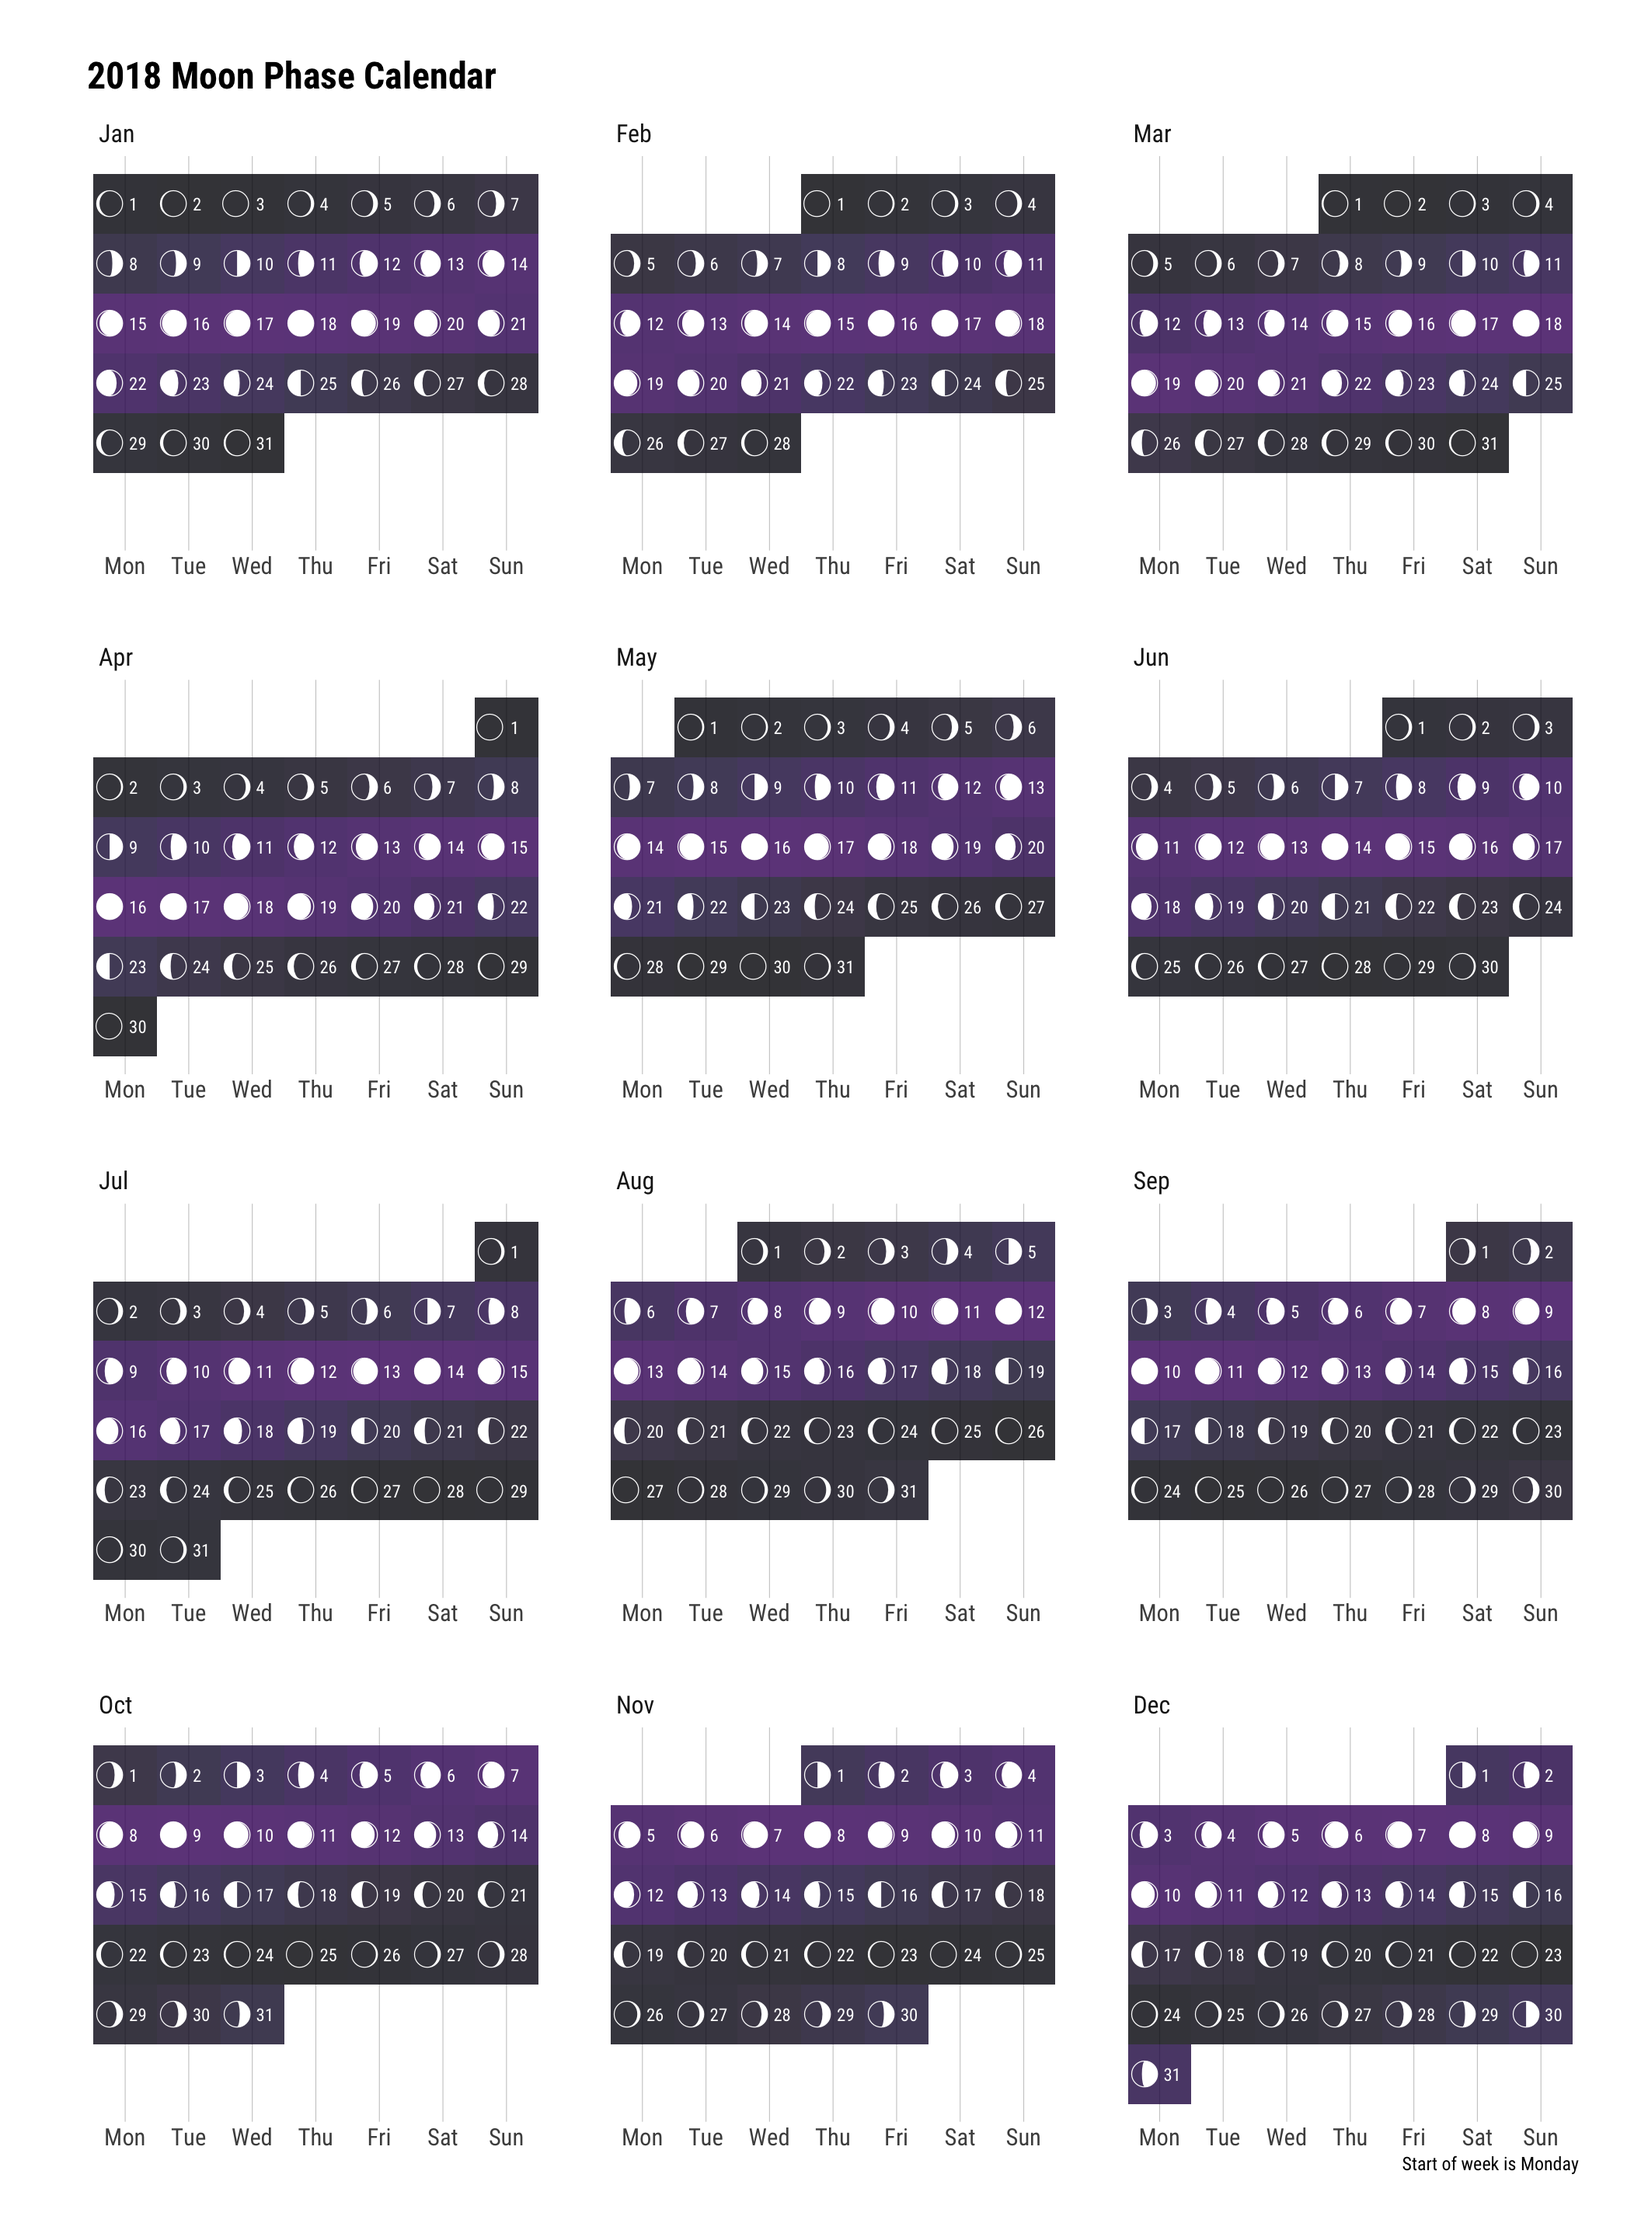
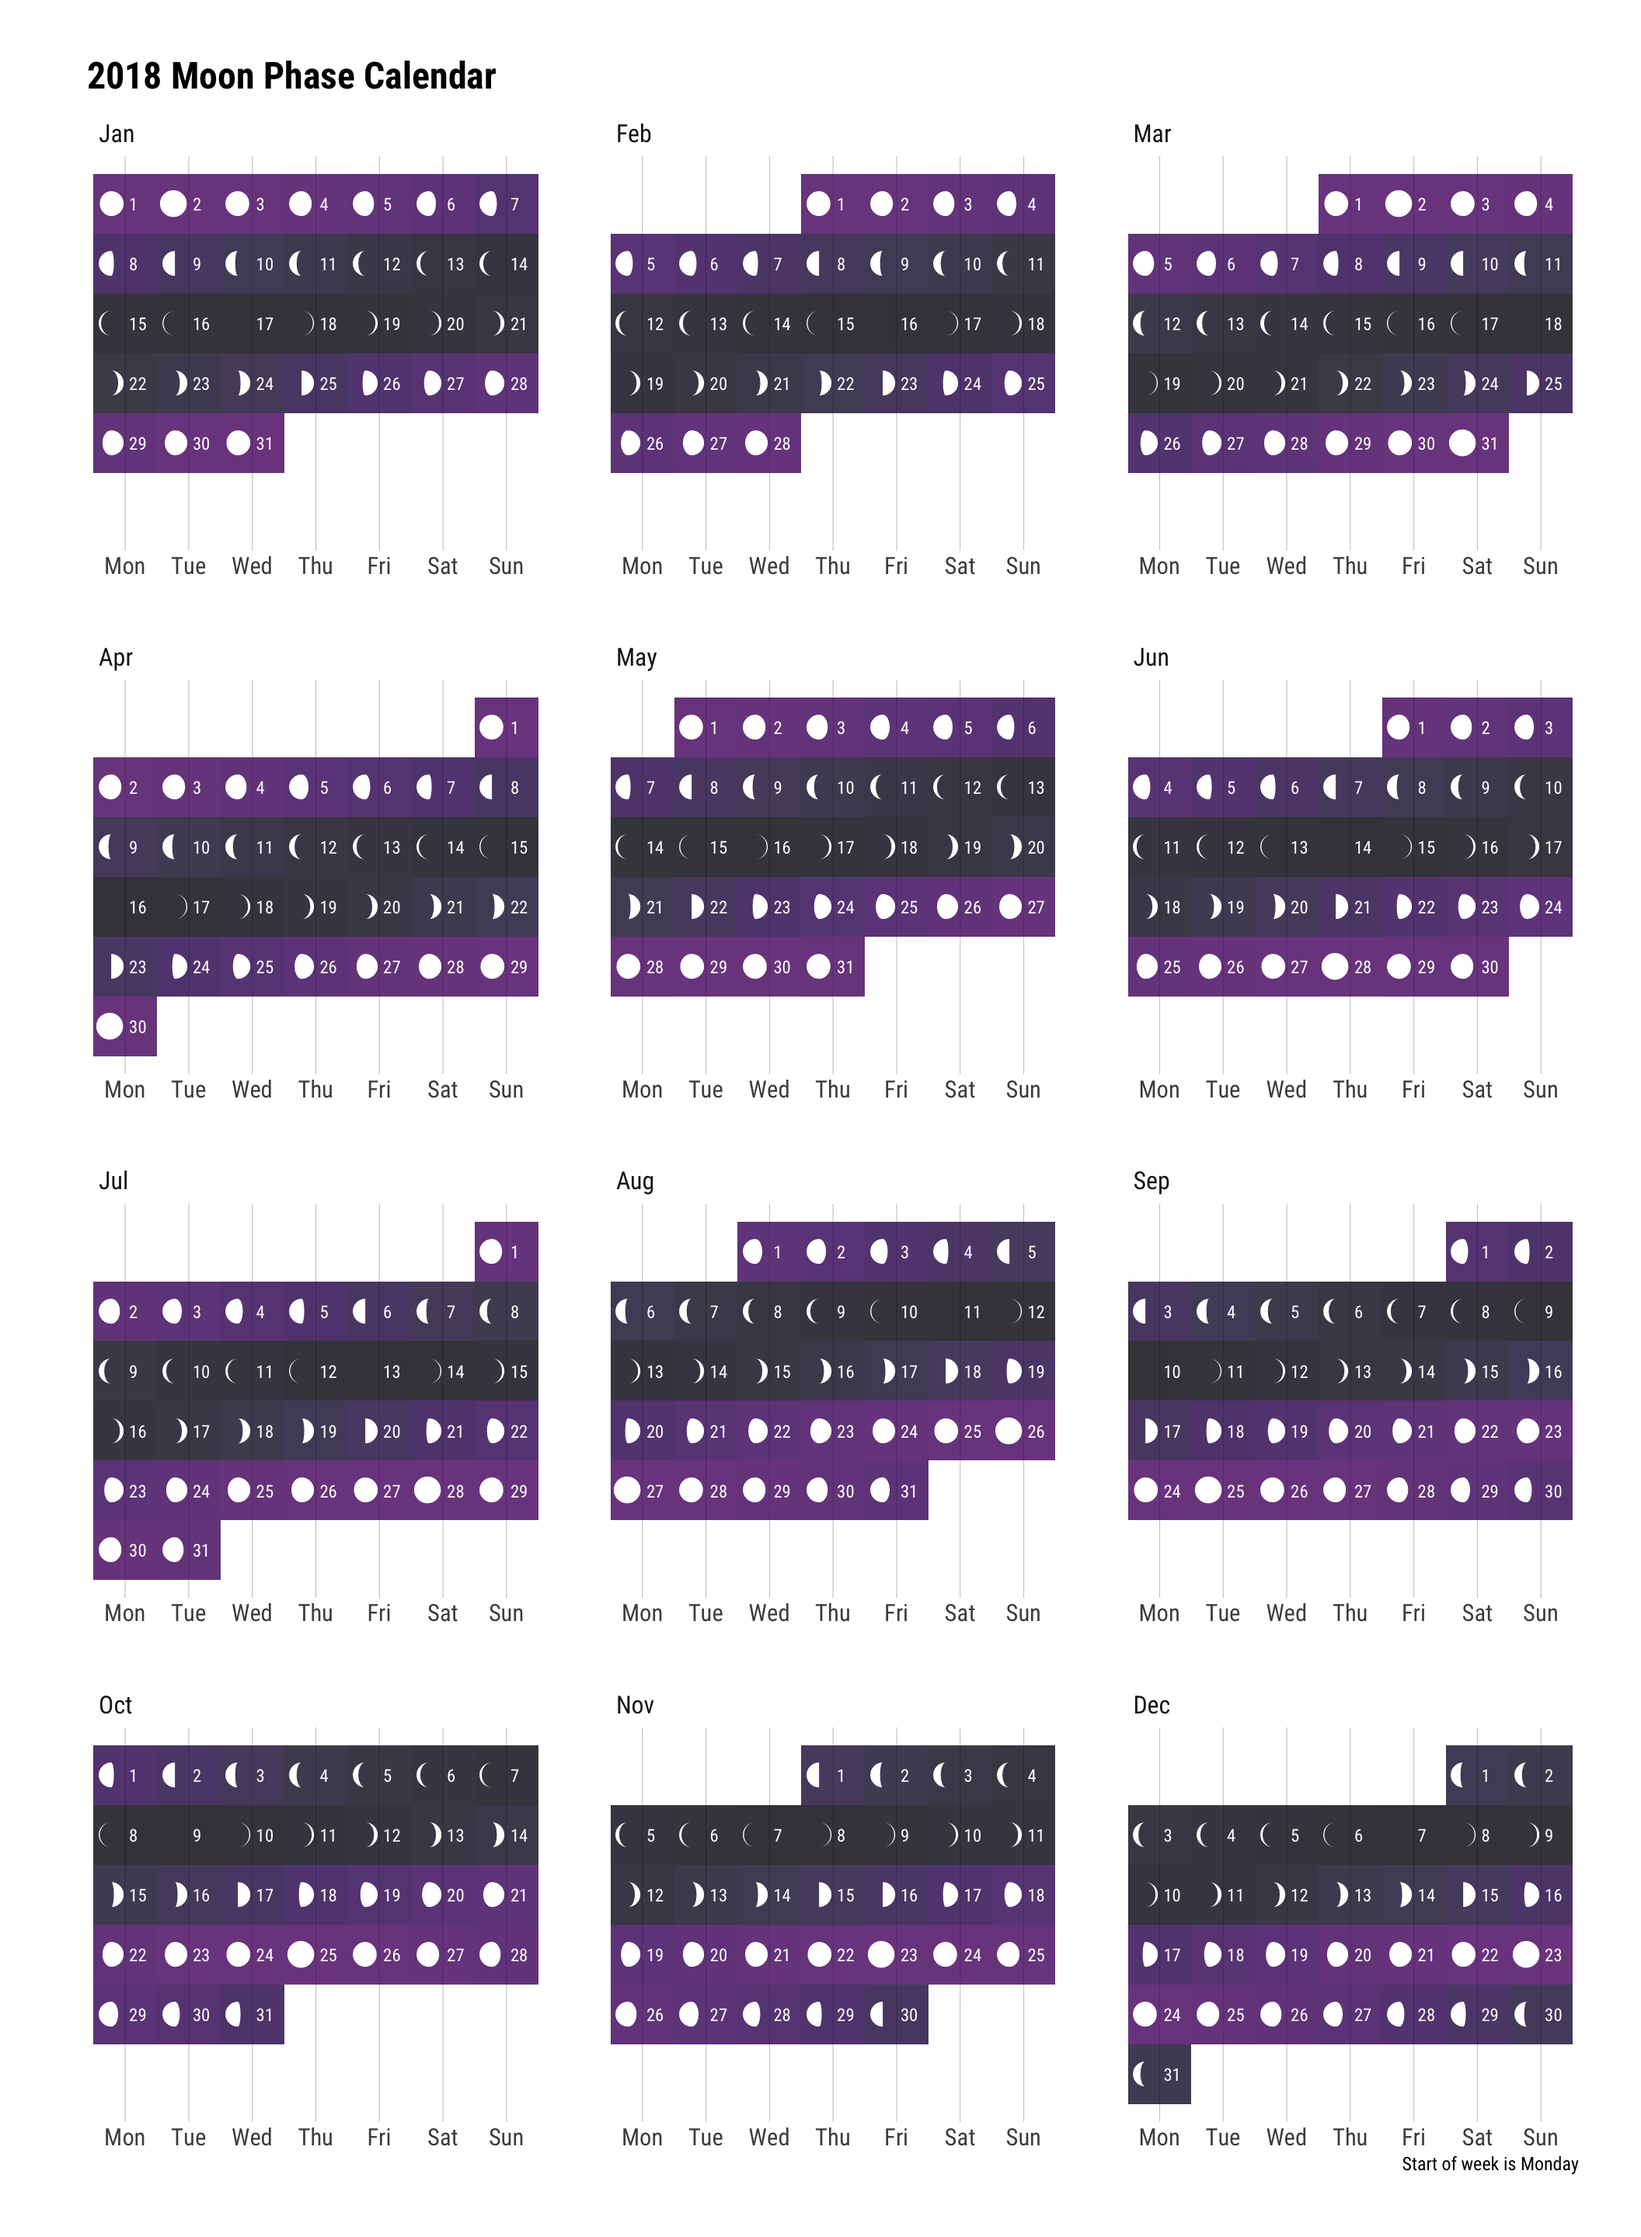
Fixed some errors.

diff --git a/content/post/2018-05-26-making-calendar-with-ggplot-moon-phase-calendar.html b/content/post/2018-05-26-making-calendar-with-ggplot-moon-phase-calendar.html
@@ -32,7 +32,6 @@ output:
 Moon_2018 &lt;-getMoonIllumination(date = seq.Date(as.Date(&quot;2018-01-01&quot;), as.Date(&quot;2018-12-31&quot;), by = 1), 
                                  keep = c(&quot;fraction&quot;, &quot;phase&quot;, &quot;angle&quot;))
 
-moon.font &lt;- c(0, LETTERS[1:13], 1, LETTERS[14:26])  ## 0 is New Moon then use A to N, 1 is Full Moon, then use M to Z
 
 ## Append Extra Info, so I can use ggplot to make calendar. 
 Moon_2018_df &lt;- Moon_2018 %&gt;% 
@@ -40,12 +39,20 @@ Moon_2018_df &lt;- Moon_2018 %&gt;%
          wkn = week(date), ## Week Number
          mo = month(date, label=T, abbr=T), ## Month
          day = day(date), ## Day
-         moon.phase = cut(phase,breaks=seq(0,1,by=1/28), ## I want to assign
-                          ordered_result=T, 
-                          labels=moon.font,right=F)) %&gt;%
+         moon.phase = cut(#phase,breaks=seq(0,1,by=1/28), ## this doesn&#39;t work...
+                          phase,breaks=seq(0,1,by=1/56),
+                          ordered_result=T)) %&gt;%
   group_by(mo) %&gt;% 
   mutate(wkn.mo = dense_rank(wkn)) %&gt;%
   ungroup()
+
+## Simply cutting into 28 blocks didn&#39;t work out..  
+moon.font.tb &lt;- tibble(
+  moon.font = c(NA, letters[rep(1:13,rep(2,13))], 0,0, letters[rep(14:26,rep(2,13))],NA),
+  moon.phase = levels(Moon_2018_df$moon.phase)
+)
+
+Moon_2018_df &lt;- Moon_2018_df %&gt;% left_join(moon.font.tb)
 
 ## Show the data around today to see what data above looks like.
 Moon_2018_df %&gt;% filter(between(date,today()-3,today()+3)) %&gt;% kable()</code></pre>
@@ -62,6 +69,7 @@ Moon_2018_df %&gt;% filter(between(date,today()-3,today()+3)) %&gt;% kable()</co
 <th align="right">day</th>
 <th align="left">moon.phase</th>
 <th align="right">wkn.mo</th>
+<th align="left">moon.font</th>
 </tr>
 </thead>
 <tbody>
@@ -74,8 +82,9 @@ Moon_2018_df %&gt;% filter(between(date,today()-3,today()+3)) %&gt;% kable()</co
 <td align="right">21</td>
 <td align="left">May</td>
 <td align="right">23</td>
-<td align="left">G</td>
+<td align="left">(0.268,0.286]</td>
 <td align="right">4</td>
+<td align="left">h</td>
 </tr>
 <tr class="even">
 <td align="left">2018-05-24</td>
@@ -86,8 +95,9 @@ Moon_2018_df %&gt;% filter(between(date,today()-3,today()+3)) %&gt;% kable()</co
 <td align="right">21</td>
 <td align="left">May</td>
 <td align="right">24</td>
-<td align="left">H</td>
+<td align="left">(0.304,0.321]</td>
 <td align="right">4</td>
+<td align="left">i</td>
 </tr>
 <tr class="odd">
 <td align="left">2018-05-25</td>
@@ -98,8 +108,9 @@ Moon_2018_df %&gt;% filter(between(date,today()-3,today()+3)) %&gt;% kable()</co
 <td align="right">21</td>
 <td align="left">May</td>
 <td align="right">25</td>
-<td align="left">I</td>
+<td align="left">(0.339,0.357]</td>
 <td align="right">4</td>
+<td align="left">j</td>
 </tr>
 <tr class="even">
 <td align="left">2018-05-26</td>
@@ -110,8 +121,9 @@ Moon_2018_df %&gt;% filter(between(date,today()-3,today()+3)) %&gt;% kable()</co
 <td align="right">21</td>
 <td align="left">May</td>
 <td align="right">26</td>
-<td align="left">J</td>
+<td align="left">(0.375,0.393]</td>
 <td align="right">4</td>
+<td align="left">k</td>
 </tr>
 <tr class="odd">
 <td align="left">2018-05-27</td>
@@ -122,8 +134,9 @@ Moon_2018_df %&gt;% filter(between(date,today()-3,today()+3)) %&gt;% kable()</co
 <td align="right">21</td>
 <td align="left">May</td>
 <td align="right">27</td>
-<td align="left">K</td>
+<td align="left">(0.411,0.429]</td>
 <td align="right">4</td>
+<td align="left">l</td>
 </tr>
 <tr class="even">
 <td align="left">2018-05-28</td>
@@ -134,8 +147,9 @@ Moon_2018_df %&gt;% filter(between(date,today()-3,today()+3)) %&gt;% kable()</co
 <td align="right">22</td>
 <td align="left">May</td>
 <td align="right">28</td>
-<td align="left">L</td>
+<td align="left">(0.446,0.464]</td>
 <td align="right">5</td>
+<td align="left">m</td>
 </tr>
 <tr class="odd">
 <td align="left">2018-05-29</td>
@@ -146,8 +160,9 @@ Moon_2018_df %&gt;% filter(between(date,today()-3,today()+3)) %&gt;% kable()</co
 <td align="right">22</td>
 <td align="left">May</td>
 <td align="right">29</td>
-<td align="left">M</td>
+<td align="left">(0.464,0.482]</td>
 <td align="right">5</td>
+<td align="left">m</td>
 </tr>
 </tbody>
 </table>
@@ -175,18 +190,27 @@ Moon_2018_df %&gt;% ggplot(aes(x=wkdy, y=wkn.mo)) +
 <pre class="r"><code>Moon_2018_df %&gt;% ggplot(aes(x=wkdy, y=wkn.mo)) + 
   geom_tile(alpha=0.8, aes(fill=fraction)) + 
   geom_text(aes(label=paste0(&quot; &quot;,day)),size=3,family=&quot;Roboto Condensed&quot;,hjust=0, color=&quot;white&quot;) +
-  geom_text(aes(label=moon.phase), family=&quot;Moon Phases&quot;, hjust=1, color=&quot;white&quot;, size=5) +
+  geom_text(aes(label=moon.font), family=&quot;Moon Phases&quot;, hjust=1, color=&quot;white&quot;, size=5) +
   facet_wrap(~mo, scales=&quot;free_x&quot;, ncol=3) +  ## So that Each Line is Quarter!
   scale_x_discrete() +
   scale_y_reverse(breaks=NULL) +
-  scale_fill_viridis_c(name=&quot;Moon Illumination&quot;, option=&quot;inferno&quot;,  begin=0.2, end=0, guide=&quot;none&quot;) +  ## so that sky is darkest when there&#39;s new moon
+  scale_fill_viridis_c(name=&quot;Moon Illumination&quot;, option=&quot;inferno&quot;,  begin=0, end=0.25, guide=&quot;none&quot;) +  ## so that sky is darkest when there&#39;s new moon
   theme_ipsum_rc() +
   labs(title=&quot;2018 Moon Phase Calendar&quot;, x=&quot;Start of week is Monday&quot;, y=&quot;&quot;) +
   expand_limits(y=c(0.5,6.5)) +
   theme(legend.position=&quot;top&quot;)</code></pre>
 <p><img src="/post/2018-05-26-making-calendar-with-ggplot-moon-phase-calendar_files/figure-html/moon_phase_calendar-1.png" width="1056" /></p>
-<div id="problem" class="section level3">
-<h3>Problem…</h3>
-<p>However after creating the above, I realized Full Moon dates and fonts are NOT exactly aligned…. I guess I’d probably need to do better way to asign phase value to the font…</p>
 </div>
+<div id="yet-another-calendar" class="section level2">
+<h2>Yet Another Calendar</h2>
+<pre class="r"><code>Moon_2018_df %&gt;% 
+  ggplot(aes(x=day, y=fct_rev(mo))) + 
+  theme_minimal(base_family=&quot;Roboto Condensed&quot;) + 
+  scale_x_continuous(breaks=c(1:31), position=&quot;top&quot;) +
+  geom_text(aes(label=moon.font, color=fraction),family=&quot;Moon Phases&quot;, hjust=0.5, vjust=0.5, size=8, alpha=0.5) +
+  geom_text(aes(label=paste0(day,&quot;\n&quot;,wkdy)), family=&quot;Roboto Condensed&quot;, lineheight=0.8, size=4) + 
+  labs(x=&quot;&quot;, y=&quot;&quot;, title=&quot;Another Type of Calendar&quot;) +
+  scale_color_viridis_c()+
+  theme(legend.position=&quot;bottom&quot;)</code></pre>
+<p><img src="/post/2018-05-26-making-calendar-with-ggplot-moon-phase-calendar_files/figure-html/moon_phase_calender2-1.png" width="1056" /></p>
 </div>

diff --git a/content/post/2018-05-19-testing-entry-with-r-rmarkdown-file.html b/content/post/2018-05-19-testing-entry-with-r-rmarkdown-file.html
@@ -18,7 +18,7 @@ linktitle: ''
 
 <div id="hello-world" class="section level2">
 <h2>Hello! World!</h2>
-<p>Just figuring out how the blog post works with this random set of coffee data.</p>
+<p>Just figuring out how the blog post works with this random set of coffee data!</p>
 </div>
 <div id="espresso-drinks-visualized-with-ggplot2-pie-chart" class="section level2">
 <h2>Espresso Drinks Visualized with ggplot2 Pie Chart</h2>
